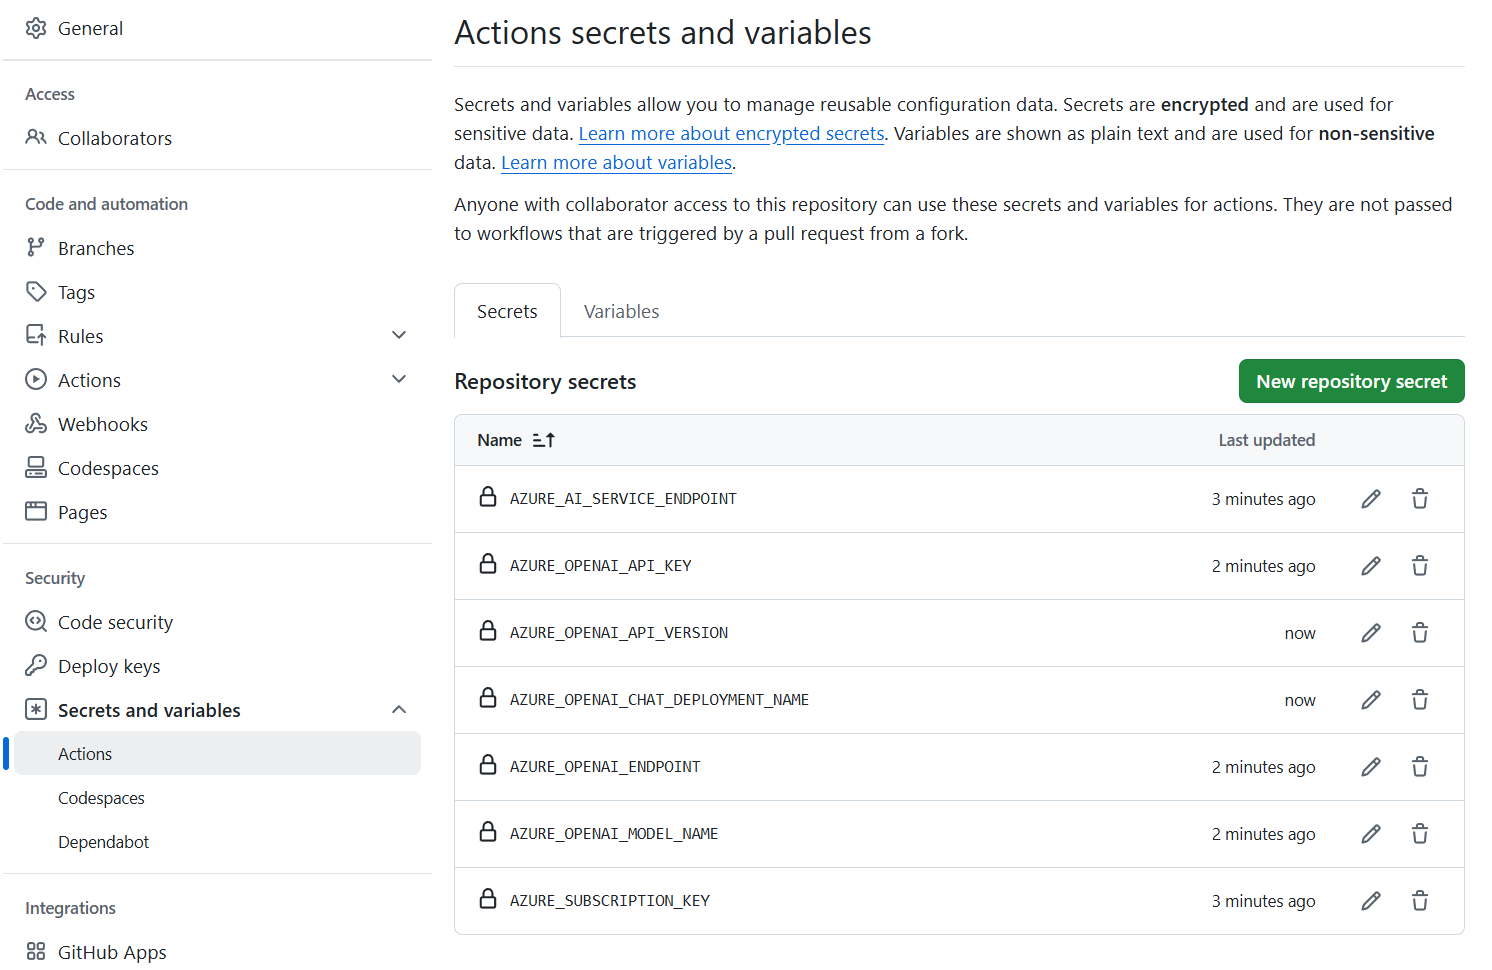
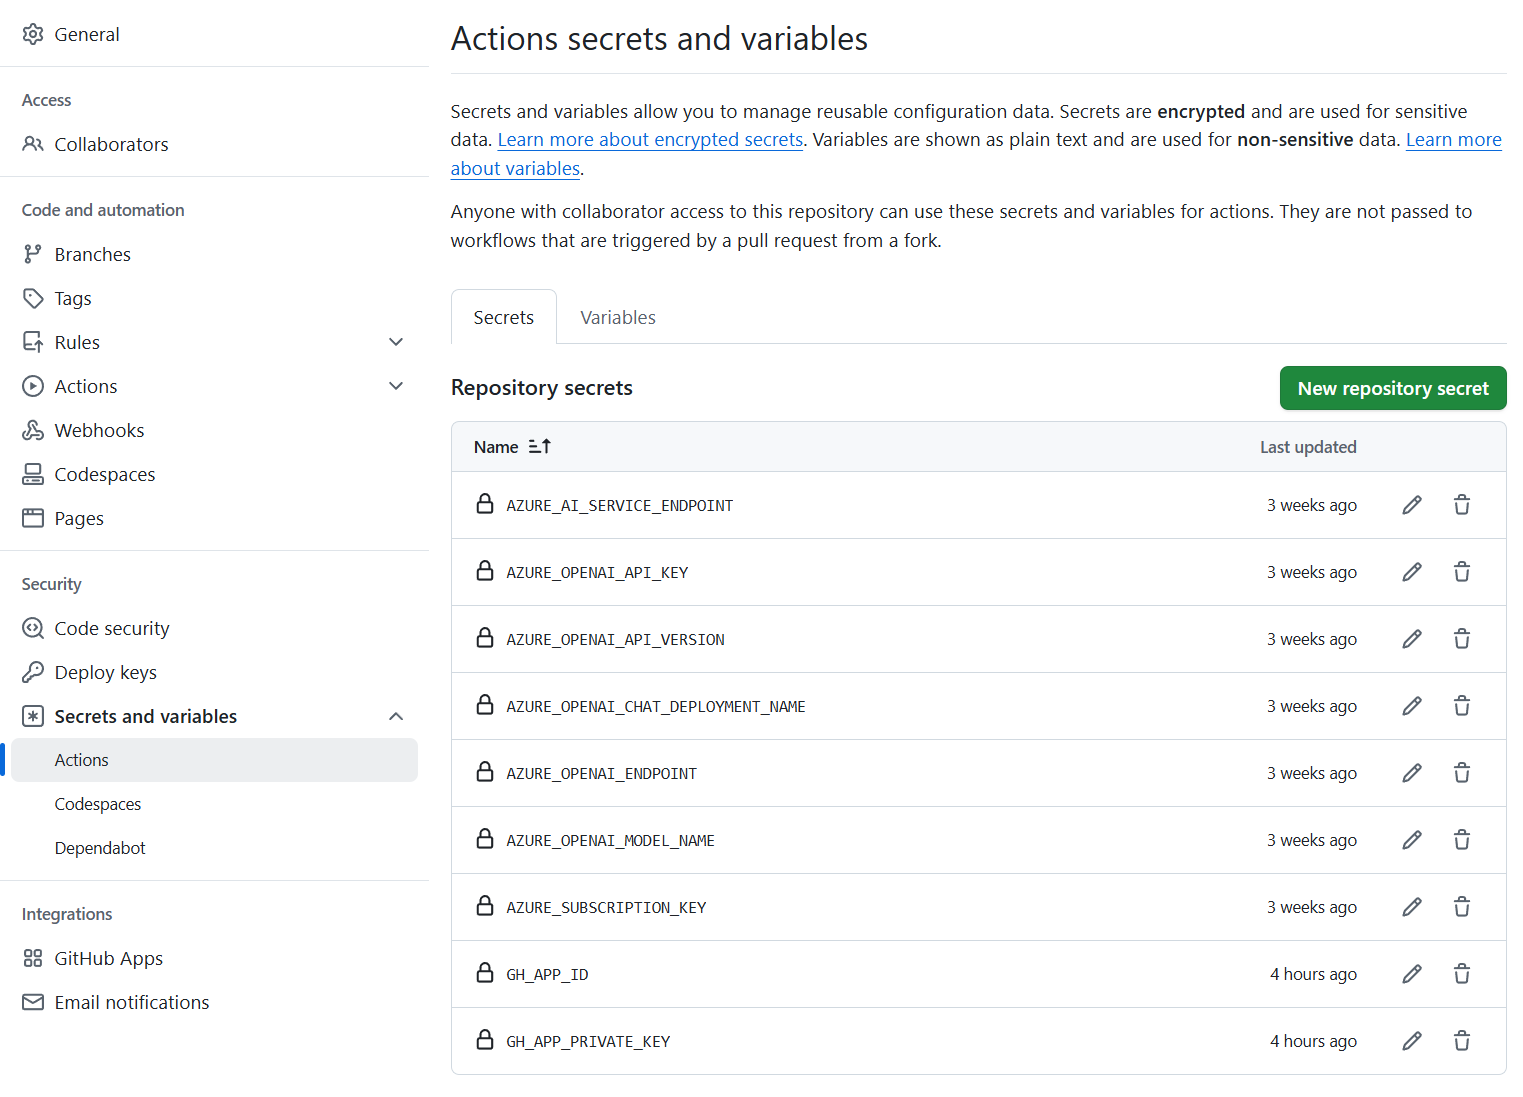
Update documentation to use github action by github app

diff --git a/getting_started/github-actions-guide/github-actions-guide.md b/getting_started/github-actions-guide/github-actions-guide.md
@@ -15,7 +15,37 @@ Before you begin, make sure to set up the following resources:
 - [Set up Azure OpenAI](../set-up-resources/set-up-azure-openai.md)
 - [Set up Azure Computer Vision](../set-up-resources/set-up-azure-computer-vision.md) (optional)
 
-## Guide
+## Quick Start
+
+> [!NOTE]
+> Co-op Translator uses a **GitHub App-based authentication** method for secure and automated workflows.
+> You can either install the pre-built app or create your own GitHub App.
+
+### Install Co-op Translator GitHub App
+
+1. Navigate to the [Co-op Translator GitHub App](https://github.com/apps/co-op-translator) and install it in your GitHub account.
+
+1. Select **App Settings**.
+
+    ![App Settings](../../imgs/select-app-settings.png)
+
+1. Inside **App Settings**, retrieve the **App ID**.
+
+    ![App ID](../../imgs/retrieve-app-id.png)
+
+1. Inside **App Settings**, select **Generate a private key** to download the **private key pem file**.
+
+    ![Generate private key](../../imgs/generate-private-key.png)
+
+1. After installation, retrieve and register the following credentials as GitHub Actions secrets:
+
+| Secret Name               | Description                     |
+|---------------------------|---------------------------------|
+| `GH_APP_ID`               | The App ID                      |
+| `GH_APP_PRIVATE_KEY`      | Content of private key pem file   |
+
+> Prefer to use your own GitHub App?  
+> You can create a custom GitHub App instead.  
 
 ### Setup environment variables
 
@@ -52,94 +82,99 @@ Before you begin, make sure to set up the following resources:
 
 1. Navigate to the root directory of the repository where you want to use Co-op Translator.
 
-2. Create a file named `co-op-translator.yml` in the `.github/workflows/` directory with the following content:
+2. Create a file named `co-op-translator.yml` in the `.github/workflows/` directory with the following content [co-op-translator.yml](../../examples/github-actions/co-op-translator.yml).
 
-    ```yml
-    name: Co-op Translator
+```
+name: Co-op Translator
 
-    on:
-    push:
-        branches:
-        - main
-        paths:
-        - '**.md'
-        - '**.png'
-        - '**.jpg'
-        - '**.jpeg'
+on:
+  push:
+    branches:
+      - main
+    paths:
+      - '**.md'
+      - '**.png'
+      - '**.jpg'
+      - '**.jpeg'
 
+jobs:
+  co-op-translate:
+    runs-on: ubuntu-latest
 
-    jobs:
-    co-op-translate:
-        runs-on: ubuntu-latest
-        
-        permissions:
-        contents: write
-        pull-requests: write
-        
-        steps:
-        - name: Checkout repository
-            uses: actions/checkout@v4
-            with:
-            fetch-depth: 0
-            
-        - name: Set up Python
-            uses: actions/setup-python@v4
-            with:
-            python-version: '3.10'
-            
-        - name: Install Co-op Translator
-            run: |
-            python -m pip install --upgrade pip
-            pip install co-op-translator==0.7.2b1
-            
-        - name: Run Co-op Translator
-            env:
-            # Azure AI Service Credentials
-            AZURE_SUBSCRIPTION_KEY: ${{ secrets.AZURE_SUBSCRIPTION_KEY }}
-            AZURE_AI_SERVICE_ENDPOINT: ${{ secrets.AZURE_AI_SERVICE_ENDPOINT }}
-            
-            # Azure OpenAI Credentials
-            AZURE_OPENAI_API_KEY: ${{ secrets.AZURE_OPENAI_API_KEY }}
-            AZURE_OPENAI_ENDPOINT: ${{ secrets.AZURE_OPENAI_ENDPOINT }}
-            AZURE_OPENAI_MODEL_NAME: ${{ secrets.AZURE_OPENAI_MODEL_NAME }}
-            AZURE_OPENAI_CHAT_DEPLOYMENT_NAME: ${{ secrets.AZURE_OPENAI_CHAT_DEPLOYMENT_NAME }}
-            AZURE_OPENAI_API_VERSION: ${{ secrets.AZURE_OPENAI_API_VERSION }}
-            
-            # OpenAI Credentials
-            OPENAI_API_KEY: ${{ secrets.OPENAI_API_KEY }}
-            OPENAI_ORG_ID: ${{ secrets.OPENAI_ORG_ID }}
-            OPENAI_CHAT_MODEL_ID: ${{ secrets.OPENAI_CHAT_MODEL_ID }}
-            OPENAI_BASE_URL: ${{ secrets.OPENAI_BASE_URL }}
-            run: |
-            # =====================================================================
-            # IMPORTANT: Set your target languages here (REQUIRED CONFIGURATION)
-            # =====================================================================
-            LANGUAGES="es fr de"  # <--- MODIFY THIS LINE with your desired languages
-            
-            echo "Translating to languages: $LANGUAGES"
-            translate -l "$LANGUAGES"
-            
-        - name: Create Pull Request with translations
-            uses: peter-evans/create-pull-request@v5
-            with:
-            token: ${{ secrets.GITHUB_TOKEN }}
-            commit-message: "🌐 Update translations via Co-op Translator"
-            title: "🌐 Update translations via Co-op Translator"
-            body: |
-                This PR updates translations for recent changes to the main branch.
+    permissions:
+      contents: write
+      pull-requests: write
 
-                ### 📋 Changes included
-                - Translated contents are available in the `translations/` directory
-                - Translated images are available in the `translated_images/` directory
+    steps:
+      - name: Checkout repository
+        uses: actions/checkout@v4
+        with:
+          fetch-depth: 0
 
-                ---
-                🌐 Automatically generated by the [Co-op Translator](https://github.com/Azure/co-op-translator) GitHub Action.
-            branch: update-translations
-            base: main
-            labels: translation, automated-pr
-            delete-branch: true
-            add-paths: |
-                translations/
-                translated_images/
+      - name: Set up Python
+        uses: actions/setup-python@v4
+        with:
+          python-version: '3.10'
 
-    ```
+      - name: Install Co-op Translator
+        run: |
+          python -m pip install --upgrade pip
+          pip install co-op-translator==0.8.0
+
+      - name: Run Co-op Translator
+        env:
+          # Azure AI Service Credentials
+          AZURE_SUBSCRIPTION_KEY: ${{ secrets.AZURE_SUBSCRIPTION_KEY }}
+          AZURE_AI_SERVICE_ENDPOINT: ${{ secrets.AZURE_AI_SERVICE_ENDPOINT }}
+
+          # Azure OpenAI Credentials
+          AZURE_OPENAI_API_KEY: ${{ secrets.AZURE_OPENAI_API_KEY }}
+          AZURE_OPENAI_ENDPOINT: ${{ secrets.AZURE_OPENAI_ENDPOINT }}
+          AZURE_OPENAI_MODEL_NAME: ${{ secrets.AZURE_OPENAI_MODEL_NAME }}
+          AZURE_OPENAI_CHAT_DEPLOYMENT_NAME: ${{ secrets.AZURE_OPENAI_CHAT_DEPLOYMENT_NAME }}
+          AZURE_OPENAI_API_VERSION: ${{ secrets.AZURE_OPENAI_API_VERSION }}
+
+          # OpenAI Credentials
+          OPENAI_API_KEY: ${{ secrets.OPENAI_API_KEY }}
+          OPENAI_ORG_ID: ${{ secrets.OPENAI_ORG_ID }}
+          OPENAI_CHAT_MODEL_ID: ${{ secrets.OPENAI_CHAT_MODEL_ID }}
+          OPENAI_BASE_URL: ${{ secrets.OPENAI_BASE_URL }}
+        run: |
+          # =====================================================================
+          # IMPORTANT: Set your target languages here (REQUIRED CONFIGURATION)
+          # =====================================================================
+          LANGUAGES="es fr de"  # <--- MODIFY THIS LINE with your desired languages
+          echo "Translating to languages: $LANGUAGES"
+          translate -l "$LANGUAGES"
+
+      - name: Authenticate GitHub App
+        id: generate_token
+        uses: tibdex/github-app-token@v1
+        with:
+          app_id: ${{ secrets.GH_APP_ID }}
+          private_key: ${{ secrets.GH_APP_PRIVATE_KEY }}
+
+      - name: Create Pull Request with translations
+        uses: peter-evans/create-pull-request@v5
+        with:
+          token: ${{ steps.generate_token.outputs.token }}
+          commit-message: "🌐 Update translations via Co-op Translator"
+          title: "🌐 Update translations via Co-op Translator"
+          body: |
+            This PR updates translations for recent changes to the main branch.
+
+            ### 📋 Changes included
+            - Translated contents are available in the `translations/` directory
+            - Translated images are available in the `translated_images/` directory
+
+            ---
+            🌐 Automatically generated by the [Co-op Translator](https://github.com/Azure/co-op-translator) GitHub Action.
+          branch: update-translations
+          base: main
+          labels: translation, automated-pr
+          delete-branch: true
+          add-paths: |
+            translations/
+            translated_images/
+
+```
